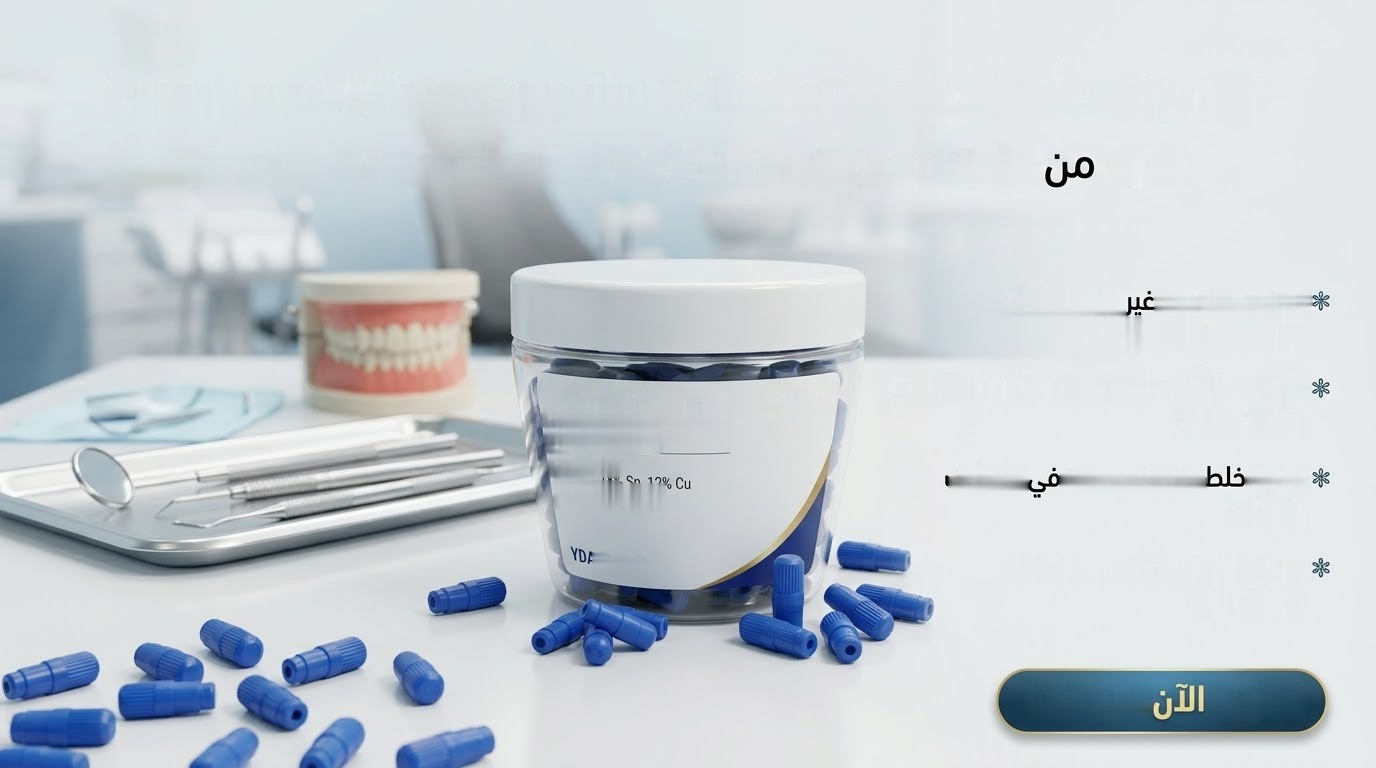
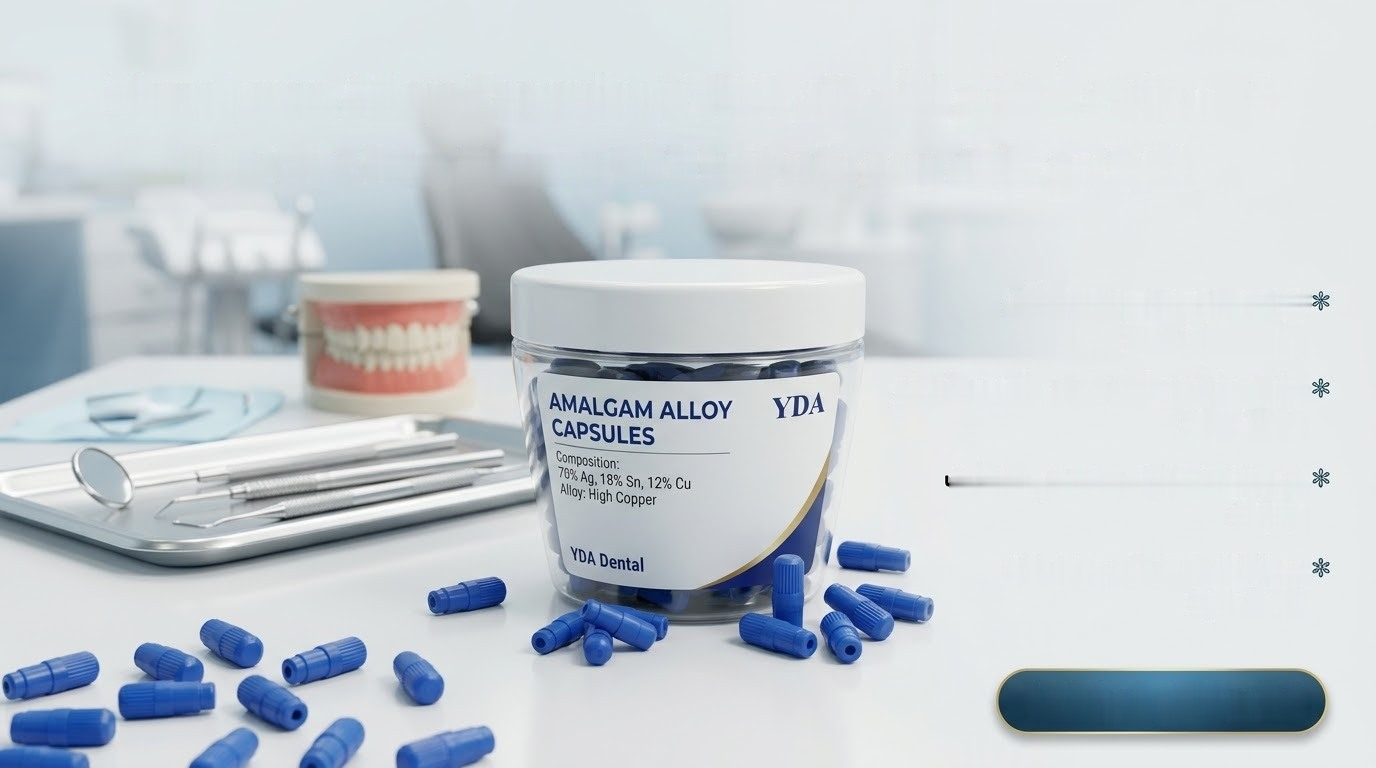
Keep brand text on amalgam boxes and add details under each image

diff --git a/index.html b/index.html
@@ -38,7 +38,7 @@
     <link rel="preconnect" href="https://fonts.googleapis.com">
     <link rel="preconnect" href="https://fonts.gstatic.com" crossorigin>
     <link href="https://fonts.googleapis.com/css2?family=Cairo:wght@400;600;700&display=swap" rel="stylesheet">
-    <link rel="stylesheet" href="styles.css?v=20261014b">
+    <link rel="stylesheet" href="styles.css?v=20261014c">
     <link rel="stylesheet" href="chat-widget.css">
 
     <!-- Products are hidden until the visitor opens them (see styles.css).
@@ -1447,10 +1447,94 @@
                         <div class="amalgam-band">
                             <h4 class="amalgam-band-title" data-i18n="amalgam.title">Amalgam</h4>
                             <div class="amalgam-row">
-                                <div class="amalgam-item"><img src="img/amalgam/amalgam-1.jpg" width="1376" height="768" alt="Amalgam product" data-i18n-attr="alt:amalgam.alt" loading="lazy" decoding="async"></div>
-                                <div class="amalgam-item"><img src="img/amalgam/amalgam-2.jpg" width="1406" height="752" alt="Amalgam product" data-i18n-attr="alt:amalgam.alt" loading="lazy" decoding="async"></div>
-                                <div class="amalgam-item"><img src="img/amalgam/amalgam-3.jpg" width="1376" height="768" alt="Amalgam product" data-i18n-attr="alt:amalgam.alt" loading="lazy" decoding="async"></div>
-                                <div class="amalgam-item"><img src="img/amalgam/amalgam-4.jpg" width="1376" height="768" alt="Amalgam product" data-i18n-attr="alt:amalgam.alt" loading="lazy" decoding="async"></div>
+                                <article class="amalgam-card">
+                                    <div class="amalgam-media">
+                                        <img src="img/amalgam/amalgam-1.jpg" width="1376" height="768" alt="SDI GS-80 amalgam capsules" data-i18n-attr="alt:amal1.alt" loading="lazy" decoding="async">
+                                    </div>
+                                    <div class="amalgam-body">
+                                        <h5 class="amalgam-name" data-i18n="amal1.name">SDI GS-80 — High Strength Amalgam Capsules</h5>
+                                        <p class="amalgam-origin" data-i18n="amal1.origin">Origin: Australia — SDI (Southern Dental Industries)</p>
+                                        <h6 data-i18n="amalgam.how">How to use</h6>
+                                        <ul class="omni-list">
+                                            <li data-i18n="amal1.u1">Triturate the 2-spill capsule in an amalgamator for the time recommended for your device (about 10 seconds).</li>
+                                            <li data-i18n="amal1.u2">Isolate the tooth, prepare the cavity and place a matrix band or a sectional matrix.</li>
+                                            <li data-i18n="amal1.u3">Condense the amalgam in small increments, then carve the anatomy and finish the margins.</li>
+                                            <li data-i18n="amal1.u4">Ask the patient to avoid chewing on the restoration for 24 hours.</li>
+                                        </ul>
+                                        <h6 data-i18n="amalgam.extra">Additional information</h6>
+                                        <ul class="omni-list">
+                                            <li data-i18n="amal1.e1">Non-gamma-2 admix (high-copper) amalgam — no weak gamma-2 phase, so less corrosion and creep.</li>
+                                            <li data-i18n="amal1.e2">High compressive strength and a positive dimensional change for a good marginal seal.</li>
+                                            <li data-i18n="amal1.e3">2-spill fast-set capsules, 50 capsules per box.</li>
+                                        </ul>
+                                    </div>
+                                </article>
+                                <article class="amalgam-card">
+                                    <div class="amalgam-media">
+                                        <img src="img/amalgam/amalgam-2.jpg" width="1406" height="752" alt="SolAloy Trent Dent amalgam capsules" data-i18n-attr="alt:amal2.alt" loading="lazy" decoding="async">
+                                    </div>
+                                    <div class="amalgam-body">
+                                        <h5 class="amalgam-name" data-i18n="amal2.name">SolAloy World Class — Trent Dent</h5>
+                                        <p class="amalgam-origin" data-i18n="amal2.origin">Origin: United Kingdom — Trent Dent Products Ltd</p>
+                                        <h6 data-i18n="amalgam.how">How to use</h6>
+                                        <ul class="omni-list">
+                                            <li data-i18n="amal2.u1">Triturate the self-activating capsule in an amalgamator at the recommended speed and time.</li>
+                                            <li data-i18n="amal2.u2">Isolate the tooth, prepare the cavity and apply a matrix band.</li>
+                                            <li data-i18n="amal2.u3">Condense in increments and carve the occlusal anatomy.</li>
+                                            <li data-i18n="amal2.u4">Finish and polish after the initial set; advise no chewing on the filling for 24 hours.</li>
+                                        </ul>
+                                        <h6 data-i18n="amalgam.extra">Additional information</h6>
+                                        <ul class="omni-list">
+                                            <li data-i18n="amal2.e1">Non-gamma-2, zinc-free dispersed-phase alloy with spherical and lathe-cut particles.</li>
+                                            <li data-i18n="amal2.e2">Corrosion resistant — suitable for stress-bearing posterior restorations.</li>
+                                            <li data-i18n="amal2.e3">Self-activating disposable capsules, 2 spill, 50 capsules per box.</li>
+                                        </ul>
+                                    </div>
+                                </article>
+                                <article class="amalgam-card">
+                                    <div class="amalgam-media">
+                                        <img src="img/amalgam/amalgam-3.jpg" width="1376" height="768" alt="YDA amalgam alloy capsules" data-i18n-attr="alt:amal3.alt" loading="lazy" decoding="async">
+                                    </div>
+                                    <div class="amalgam-body">
+                                        <h5 class="amalgam-name" data-i18n="amal3.name">YDA Amalgam Alloy Capsules</h5>
+                                        <p class="amalgam-origin" data-i18n="amal3.origin">Origin: China — YDA</p>
+                                        <h6 data-i18n="amalgam.how">How to use</h6>
+                                        <ul class="omni-list">
+                                            <li data-i18n="amal3.u1">Activate and triturate the capsule in an amalgamator as recommended by the manufacturer.</li>
+                                            <li data-i18n="amal3.u2">Isolate the tooth, prepare the cavity and place a matrix band.</li>
+                                            <li data-i18n="amal3.u3">Condense in increments, carve the anatomy and check the occlusion.</li>
+                                            <li data-i18n="amal3.u4">Ask the patient not to chew on the restoration for 24 hours.</li>
+                                        </ul>
+                                        <h6 data-i18n="amalgam.extra">Additional information</h6>
+                                        <ul class="omni-list">
+                                            <li data-i18n="amal3.e1">Non-zinc, non-gamma-2 high-copper alloy — reduced corrosion and creep.</li>
+                                            <li data-i18n="amal3.e2">Composition: silver, tin and copper (high copper) with no zinc.</li>
+                                            <li data-i18n="amal3.e3">2 spill, 50 capsules per box.</li>
+                                        </ul>
+                                    </div>
+                                </article>
+                                <article class="amalgam-card">
+                                    <div class="amalgam-media">
+                                        <img src="img/amalgam/amalgam-4.jpg" width="1376" height="768" alt="World Work self-activating amalgam capsules" data-i18n-attr="alt:amal4.alt" loading="lazy" decoding="async">
+                                    </div>
+                                    <div class="amalgam-body">
+                                        <h5 class="amalgam-name" data-i18n="amal4.name">World Work — Self-Activating Amalgam Capsules</h5>
+                                        <p class="amalgam-origin" data-i18n="amal4.origin">Origin: Italy — World Work Srl</p>
+                                        <h6 data-i18n="amalgam.how">How to use</h6>
+                                        <ul class="omni-list">
+                                            <li data-i18n="amal4.u1">Activate the capsule (press and twist), then triturate it in an amalgamator for the recommended time.</li>
+                                            <li data-i18n="amal4.u2">Isolate the tooth, prepare the cavity and place a matrix band.</li>
+                                            <li data-i18n="amal4.u3">Condense in small increments and carve the anatomy before the material sets.</li>
+                                            <li data-i18n="amal4.u4">Advise the patient to avoid chewing on the filling for 24 hours.</li>
+                                        </ul>
+                                        <h6 data-i18n="amalgam.extra">Additional information</h6>
+                                        <ul class="omni-list">
+                                            <li data-i18n="amal4.e1">Self-activating disposable amalgam capsules; CE 0425, made in Italy.</li>
+                                            <li data-i18n="amal4.e2">Non-gamma-2 high-copper alloy; mercury and alloy stay sealed in the capsule until activation.</li>
+                                            <li data-i18n="amal4.e3">Available in 1, 2, 3 and 5 spill; supplied here in 2 spill, 50 capsules per box.</li>
+                                        </ul>
+                                    </div>
+                                </article>
                             </div>
                         </div>
 
@@ -1525,9 +1609,9 @@
          chat-widget.js  : injects its own markup, then the chat logic
          ============================================================ -->
     <script src="store-config.js" defer></script>
-    <script src="i18n.js?v=20261014b" defer></script>
+    <script src="i18n.js?v=20261014c" defer></script>
     <script src="site.js" defer></script>
-    <script src="home.js?v=20261014b" defer></script>
+    <script src="home.js?v=20261014c" defer></script>
     <script src="chat-widget.js" defer></script>
 
 </body>

diff --git a/i18n.js b/i18n.js
@@ -125,7 +125,52 @@
         'comp.less':       'Hide',
         'comp.order':      'Order',
         'amalgam.title':   'Amalgam',
-        'amalgam.alt':     'Amalgam capsules product',
+        'amalgam.how':     'How to use',
+        'amalgam.extra':   'Additional information',
+        /* --- amal1 : SDI GS-80 (Australia) --- */
+        'amal1.name':      'SDI GS-80 — High Strength Amalgam Capsules',
+        'amal1.alt':       'SDI GS-80 amalgam capsules',
+        'amal1.origin':    'Origin: Australia — SDI (Southern Dental Industries)',
+        'amal1.u1':        'Triturate the 2-spill capsule in an amalgamator for the time recommended for your device (about 10 seconds).',
+        'amal1.u2':        'Isolate the tooth, prepare the cavity and place a matrix band or a sectional matrix.',
+        'amal1.u3':        'Condense the amalgam in small increments, then carve the anatomy and finish the margins.',
+        'amal1.u4':        'Ask the patient to avoid chewing on the restoration for 24 hours.',
+        'amal1.e1':        'Non-gamma-2 admix (high-copper) amalgam — no weak gamma-2 phase, so less corrosion and creep.',
+        'amal1.e2':        'High compressive strength and a positive dimensional change for a good marginal seal.',
+        'amal1.e3':        '2-spill fast-set capsules, 50 capsules per box.',
+        /* --- amal2 : SolAloy / Trent Dent (United Kingdom) --- */
+        'amal2.name':      'SolAloy World Class — Trent Dent',
+        'amal2.alt':       'SolAloy Trent Dent amalgam capsules',
+        'amal2.origin':    'Origin: United Kingdom — Trent Dent Products Ltd',
+        'amal2.u1':        'Triturate the self-activating capsule in an amalgamator at the recommended speed and time.',
+        'amal2.u2':        'Isolate the tooth, prepare the cavity and apply a matrix band.',
+        'amal2.u3':        'Condense in increments and carve the occlusal anatomy.',
+        'amal2.u4':        'Finish and polish after the initial set; advise no chewing on the filling for 24 hours.',
+        'amal2.e1':        'Non-gamma-2, zinc-free dispersed-phase alloy with spherical and lathe-cut particles.',
+        'amal2.e2':        'Corrosion resistant — suitable for stress-bearing posterior restorations.',
+        'amal2.e3':        'Self-activating disposable capsules, 2 spill, 50 capsules per box.',
+        /* --- amal3 : YDA (China) --- */
+        'amal3.name':      'YDA Amalgam Alloy Capsules',
+        'amal3.alt':       'YDA amalgam alloy capsules',
+        'amal3.origin':    'Origin: China — YDA',
+        'amal3.u1':        'Activate and triturate the capsule in an amalgamator as recommended by the manufacturer.',
+        'amal3.u2':        'Isolate the tooth, prepare the cavity and place a matrix band.',
+        'amal3.u3':        'Condense in increments, carve the anatomy and check the occlusion.',
+        'amal3.u4':        'Ask the patient not to chew on the restoration for 24 hours.',
+        'amal3.e1':        'Non-zinc, non-gamma-2 high-copper alloy — reduced corrosion and creep.',
+        'amal3.e2':        'Composition: silver, tin and copper (high copper) with no zinc.',
+        'amal3.e3':        '2 spill, 50 capsules per box.',
+        /* --- amal4 : World Work (Italy) --- */
+        'amal4.name':      'World Work — Self-Activating Amalgam Capsules',
+        'amal4.alt':       'World Work self-activating amalgam capsules',
+        'amal4.origin':    'Origin: Italy — World Work Srl',
+        'amal4.u1':        'Activate the capsule (press and twist), then triturate it in an amalgamator for the recommended time.',
+        'amal4.u2':        'Isolate the tooth, prepare the cavity and place a matrix band.',
+        'amal4.u3':        'Condense in small increments and carve the anatomy before the material sets.',
+        'amal4.u4':        'Advise the patient to avoid chewing on the filling for 24 hours.',
+        'amal4.e1':        'Self-activating disposable amalgam capsules; CE 0425, made in Italy.',
+        'amal4.e2':        'Non-gamma-2 high-copper alloy; mercury and alloy stay sealed in the capsule until activation.',
+        'amal4.e3':        'Available in 1, 2, 3 and 5 spill; supplied here in 2 spill, 50 capsules per box.',
         /* --- omni : how to use / additional information --- */
         'omni.how':           'How to use',
         'omni.u1':            'Isolate the tooth and prepare the cavity using your normal adhesive protocol.',
@@ -805,7 +850,52 @@
         'comp.less':       'إخفاء',
         'comp.order':      'اطلب',
         'amalgam.title':   'الأملجم',
-        'amalgam.alt':     'منتج أملجم',
+        'amalgam.how':     'طريقة الاستخدام',
+        'amalgam.extra':   'معلومات إضافية',
+        /* --- amal1 : SDI GS-80 (أستراليا) --- */
+        'amal1.name':      'SDI GS-80 — كبسولات أملجم عالي القوة',
+        'amal1.alt':       'كبسولات أملجم SDI GS-80',
+        'amal1.origin':    'بلد المنشأ: أستراليا — SDI (Southern Dental Industries)',
+        'amal1.u1':        'شغّل كبسولة الـ2 سبيل في الأملمجيتور للمدة الموصى بها لجهازك (حوالي 10 ثوانٍ).',
+        'amal1.u2':        'اعزل السن وحضّر التجويف وضع شريط ماتريكس أو ماتريكس قطاعي.',
+        'amal1.u3':        'اكبس الأملجم على دفعات صغيرة ثم انحت التشريح ونهّي الحواف.',
+        'amal1.u4':        'اطلب من المريض تجنّب المضغ على الحشو لمدة 24 ساعة.',
+        'amal1.e1':        'أملجم أدماكس غير جاما-2 (نحاس عالي) — بدون طور جاما-2 الضعيف، فالتآكل والزحف أقل.',
+        'amal1.e2':        'قوة ضغط عالية مع تغيّر أبعادي موجب لختم حافي جيد.',
+        'amal1.e3':        'كبسولات 2 سبيل سريعة التصلّب، 50 كبسولة في العلبة.',
+        /* --- amal2 : SolAloy / Trent Dent (المملكة المتحدة) --- */
+        'amal2.name':      'SolAloy World Class — ترنت دنت',
+        'amal2.alt':       'كبسولات أملجم SolAloy من ترنت دنت',
+        'amal2.origin':    'بلد المنشأ: المملكة المتحدة — Trent Dent Products Ltd',
+        'amal2.u1':        'شغّل الكبسولة ذاتية التنشيط في الأملمجيتور بالسرعة والمدة الموصى بها.',
+        'amal2.u2':        'اعزل السن وحضّر التجويف وضع شريط الماتريكس.',
+        'amal2.u3':        'اكبس على دفعات وانحت تشريح السطح الإطباقي.',
+        'amal2.u4':        'نهّي واصقل بعد التصلّب المبدئي، وانصح المريض بعدم المضغ على الحشو 24 ساعة.',
+        'amal2.e1':        'سبيكة طورية متفرقة غير جاما-2 وخالية من الزنك بحبيبات كروية ومقطوعة بالخراطة.',
+        'amal2.e2':        'مقاومة للتآكل — مناسبة للحشوات الخلفية التي تتحمل الإجهاد.',
+        'amal2.e3':        'كبسولات ذاتية التنشيط تُستخدم مرة واحدة، 2 سبيل، 50 كبسولة في العلبة.',
+        /* --- amal3 : YDA (الصين) --- */
+        'amal3.name':      'YDA — كبسولات سبيكة أملجم',
+        'amal3.alt':       'كبسولات سبيكة أملجم YDA',
+        'amal3.origin':    'بلد المنشأ: الصين — YDA',
+        'amal3.u1':        'نشّط الكبسولة وشغّلها في الأملمجيتور حسب توصيات الشركة المصنّعة.',
+        'amal3.u2':        'اعزل السن وحضّر التجويف وضع شريط الماتريكس.',
+        'amal3.u3':        'اكبس على دفعات وانحت التشريح وافحص الإطباق.',
+        'amal3.u4':        'اطلب من المريض عدم المضغ على الحشو لمدة 24 ساعة.',
+        'amal3.e1':        'سبيكة نحاس عالي غير جاما-2 وخالية من الزنك — تآكل وزحف أقل.',
+        'amal3.e2':        'التركيب: فضة وقصدير ونحاس (نحاس عالي) بدون زنك.',
+        'amal3.e3':        '2 سبيل، 50 كبسولة في العلبة.',
+        /* --- amal4 : World Work (إيطاليا) --- */
+        'amal4.name':      'World Work — كبسولات أملجم ذاتية التنشيط',
+        'amal4.alt':       'كبسولات أملجم World Work ذاتية التنشيط',
+        'amal4.origin':    'بلد المنشأ: إيطاليا — World Work Srl',
+        'amal4.u1':        'نشّط الكبسولة (اضغط ولفّ) ثم شغّلها في الأملمجيتور للمدة الموصى بها.',
+        'amal4.u2':        'اعزل السن وحضّر التجويف وضع شريط الماتريكس.',
+        'amal4.u3':        'اكبس على دفعات صغيرة وانحت التشريح قبل تصلّب المادة.',
+        'amal4.u4':        'انصح المريض بتجنّب المضغ على الحشو لمدة 24 ساعة.',
+        'amal4.e1':        'كبسولات أملجم ذاتية التنشيط تُستخدم مرة واحدة؛ CE 0425 وصُنعت في إيطاليا.',
+        'amal4.e2':        'سبيكة نحاس عالي غير جاما-2، والزئبق والسبيكة معزولان داخل الكبسولة حتى التنشيط.',
+        'amal4.e3':        'متوفرة بمقاسات 1 و2 و3 و5 سبيل؛ والمتاح هنا 2 سبيل، 50 كبسولة في العلبة.',
         /* --- omni : how to use / additional information --- */
         'omni.how':           'طريقة الاستخدام',
         'omni.u1':            'اعزل السن وحضّر التجويف ببروتوكول اللصق المعتاد.',

diff --git a/styles.css b/styles.css
@@ -1130,7 +1130,7 @@
             }
         }
 
-        /* ---- amalgam band: the four amalgam images under the showcase ---- */
+        /* ---- amalgam band: the four amalgam cards under the showcase ---- */
         .amalgam-band {
             display: grid;
             gap: 12px;
@@ -1140,7 +1140,6 @@
             margin: 8px 0 0;
             font-size: 1.05rem;
             letter-spacing: 0.02em;
-            color: var(--text, inherit);
         }
 
         .amalgam-row {
@@ -1149,21 +1148,61 @@
             gap: 14px;
         }
 
-        .amalgam-item {
+        .amalgam-card {
+            display: flex;
+            flex-direction: column;
+            background: var(--surface-soft);
+            border: 1px solid var(--border);
+            border-radius: 18px;
+            padding: 13px;
+            box-shadow: var(--shadow);
+        }
+
+        .amalgam-media {
             border-radius: 14px;
             overflow: hidden;
             line-height: 0;
             border: 1px solid rgba(199, 203, 209, 0.14);
             background: var(--primary-soft);
-            box-shadow: var(--shadow);
         }
 
-        .amalgam-item img {
+        .amalgam-media img {
             display: block;
             width: 100%;
             height: auto;
             aspect-ratio: 16 / 9;
             object-fit: cover;
+        }
+
+        .amalgam-body {
+            display: grid;
+            gap: 8px;
+            margin-top: 12px;
+        }
+
+        .amalgam-name {
+            margin: 0;
+            font-size: 0.96rem;
+            line-height: 1.4;
+        }
+
+        .amalgam-origin {
+            margin: 0;
+            font-size: 0.78rem;
+            line-height: 1.5;
+            color: var(--muted);
+        }
+
+        .amalgam-body h6 {
+            margin: 6px 0 0;
+            font-size: 0.86rem;
+            font-weight: 700;
+            color: var(--silver);
+        }
+
+        .amalgam-body .omni-list li {
+            font-size: 0.82rem;
+            line-height: 1.55;
         }
 
         @media (max-width: 1080px) {
